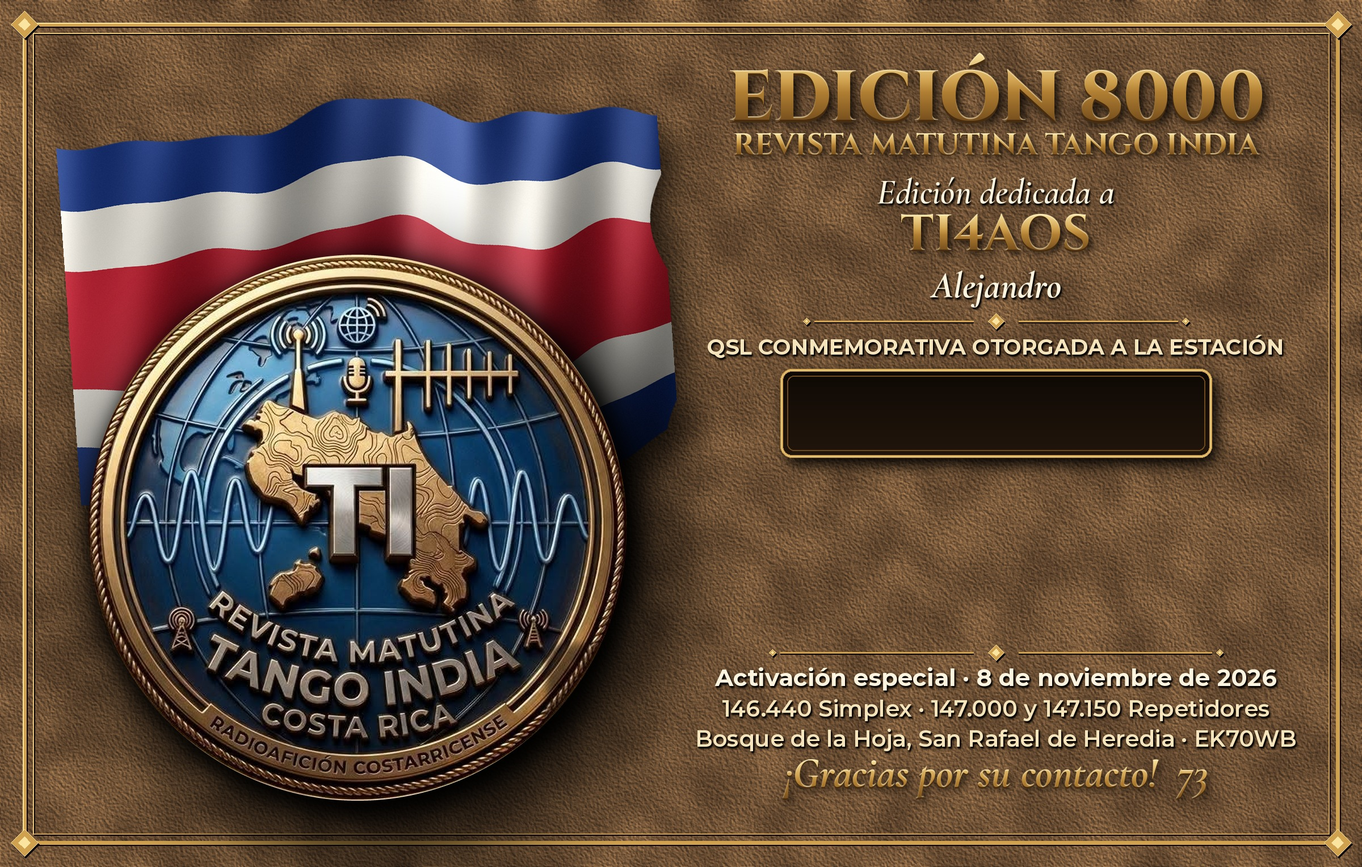
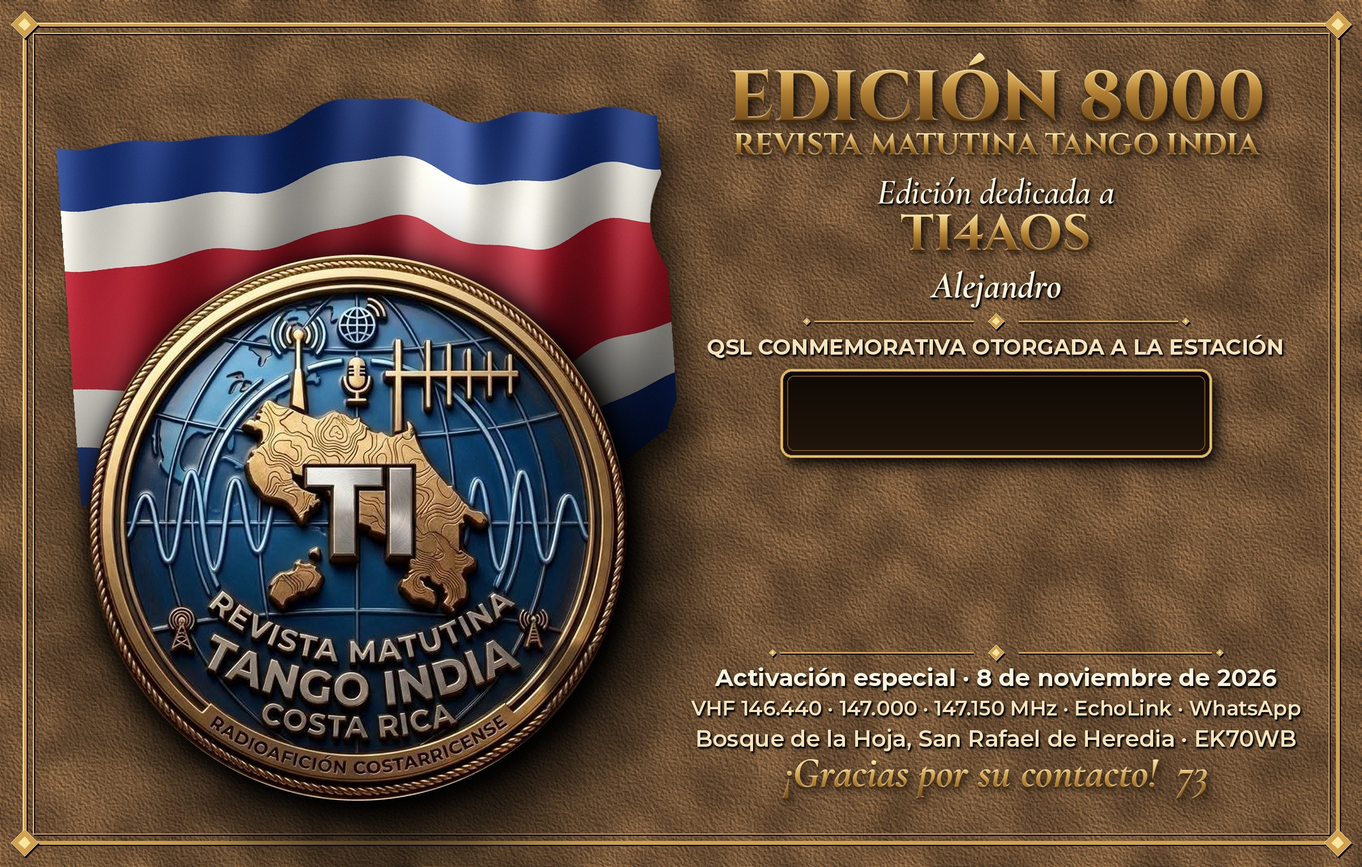
Add files via upload

Changed region(s): [[0.5, 0.7997, 0.9688, 0.8305]]

diff --git a/index.html b/index.html
@@ -170,6 +170,9 @@ footer .pend b{color:var(--warn)}
 'use strict';
 const OFFSET_UTC = 6;   // Costa Rica: UTC = local + 6 h
 const FREQS = [['146.440', 'Simplex'], ['147.000', 'Rep. Heredia'], ['147.150', 'Rep. Nacional']];
+const MODOS = [['FM', 'Radio'], ['EchoLink', 'Voz digital'], ['WhatsApp', 'Audio']];
+const modoDe = e => e.modo || 'FM';
+const descQ = q => q.modo === 'FM' || !q.modo ? q.freq + ' MHz' : q.modo;
 const KEY = 'qsl8000';
 const $ = s => document.querySelector(s);
 
@@ -263,11 +266,15 @@ function render() {
     const custom = e.freq && !FREQS.some(f => f[0] === e.freq);
     main.innerHTML = `
       <div class="card">
-        <div class="lbl"><span>Frecuencia de ${esc(e.call)}</span><button class="iconbtn" id="closeTab" style="font-size:13px;padding:5px 10px">Cerrar pestaña</button></div>
+        <div class="lbl"><span>Modo de ${esc(e.call)}</span><button class="iconbtn" id="closeTab" style="font-size:13px;padding:5px 10px">Cerrar pestaña</button></div>
+        <div class="freqs" style="grid-template-columns:repeat(3,1fr);margin-bottom:${modoDe(e) === 'FM' ? 14 : 0}px">
+          ${MODOS.map(m => `<button class="fb ${modoDe(e) === m[0] ? 'sel' : ''}" data-m="${m[0]}">${m[0] === 'FM' ? 'VHF FM' : m[0]}<small>${m[1]}</small></button>`).join('')}
+        </div>
+        ${modoDe(e) === 'FM' ? `<div class="lbl"><span>Frecuencia</span></div>
         <div class="freqs">
           ${FREQS.map(f => `<button class="fb ${e.freq === f[0] ? 'sel' : ''}" data-f="${f[0]}">${f[0]}<small>${f[1]}</small></button>`).join('')}
           <button class="fb ${custom ? 'sel' : ''}" id="fOtra">${custom ? esc(e.freq) + ' ✎' : 'Otra'}<small>${custom ? 'Otra' : 'Digitar'}</small></button>
-        </div>
+        </div>` : ''}
       </div>
       <div class="card">
         <div class="editbar ${editId ? 'on' : ''}"><span>Editando QSO</span><button id="cancelEdit">Cancelar edición</button></div>
@@ -296,7 +303,7 @@ function renderLista() {
     <div class="q ${q.borrado ? 'del' : ''}">
       <div class="c">${esc(q.call)}</div>
       <div class="t">${q.horaLocal} <small>local</small> → <b>${q.horaUtc}</b> <small>UTC</small></div>
-      <div class="f">${esc(q.freq)} MHz</div>
+      <div class="f">${esc(descQ(q))}</div>
       <div class="a">
         <span class="st ${q.estado}">${q.estado === 'ok' ? '✓ enviado' : (q.borrado ? '⏳ borrar' : '⏳ pendiente')}</span>
         ${q.estado === 'pend' ? `<button data-send="${q.id}" title="Enviar este">⇪</button>` : ''}
@@ -324,18 +331,19 @@ function registrar() {
   const call = up(form.call), hora = parseHora(form.hora);
   if (!call || !/^[A-Z0-9]{1,4}[0-9][A-Z0-9\/\-]*$|^[A-Z0-9\/\-]{3,}$/.test(call)) { toast('Revise el indicativo'); $('#inCall').focus(); return; }
   if (!hora) { toast('Revise la hora'); $('#inHora').focus(); return; }
-  if (!e.freq) { toast('Seleccione la frecuencia'); return; }
+  const modo = modoDe(e), freq = modo === 'FM' ? e.freq : '';
+  if (modo === 'FM' && !freq) { toast('Seleccione la frecuencia'); return; }
   if (call === e.call) { toast('El contactado no puede ser el mismo operador'); return; }
   const u = aUtc(S.cfg.fecha, hora);
   if (editId) {
     const q = S.qsos.find(x => x.id === editId);
-    Object.assign(q, { call, horaLocal: hora, fechaLocal: S.cfg.fecha, horaUtc: u.hora, fechaUtc: u.fecha, ver: q.ver + 1, estado: 'pend' });
+    Object.assign(q, { call, modo, freq, horaLocal: hora, fechaLocal: S.cfg.fecha, horaUtc: u.hora, fechaUtc: u.fecha, ver: q.ver + 1, estado: 'pend' });
     editId = null; toast('QSO actualizado');
   } else {
-    const dup = S.qsos.find(x => !x.borrado && x.op === e.call && x.call === call && x.freq === e.freq);
-    if (dup && !confirm(`${call} ya tiene QSO con ${e.call} en ${e.freq} (${dup.horaLocal}). ¿Registrar otro?`)) return;
+    const dup = S.qsos.find(x => !x.borrado && x.op === e.call && x.call === call && (x.modo || 'FM') === modo && x.freq === freq);
+    if (dup && !confirm(`${call} ya tiene QSO con ${e.call} por ${descQ(dup)} (${dup.horaLocal}). ¿Registrar otro?`)) return;
     S.qsos.push({ id: uid(), op: e.call, call, fechaLocal: S.cfg.fecha, horaLocal: hora, fechaUtc: u.fecha, horaUtc: u.hora,
-                  freq: e.freq, modo: 'FM', borrado: false, ver: 1, estado: 'pend', enviado: false, ts: Date.now() });
+                  freq, modo, borrado: false, ver: 1, estado: 'pend', enviado: false, ts: Date.now() });
     toast(`${call} registrado · ${u.hora} UTC`);
   }
   form.call = ''; form.hora = '';
@@ -346,7 +354,7 @@ function registrar() {
 function editar(id) {
   const q = S.qsos.find(x => x.id === id); if (!q) return;
   editId = id; form.call = q.call; form.hora = q.horaLocal.replace(':', '');
-  const e = S.est[S.act]; e.freq = q.freq;
+  const e = S.est[S.act]; e.modo = q.modo || 'FM'; if (e.modo === 'FM') e.freq = q.freq;
   render(); $('#inCall').focus();
 }
 
@@ -362,7 +370,7 @@ function borrar(id) {
 function agregarOperador(call) {
   call = up(call); if (!call) return;
   let i = S.est.findIndex(e => e.call === call);
-  if (i < 0) { S.est.push({ call, freq: '' }); i = S.est.length - 1; }
+  if (i < 0) { S.est.push({ call, freq: '', modo: 'FM' }); i = S.est.length - 1; }
   S.act = i; editId = null; form.call = ''; form.hora = '';
   save(); cerrar('#mOp'); render();
   setTimeout(() => { const t = document.querySelector('.tab.act'); t && t.scrollIntoView({ inline: 'center', behavior: 'smooth' }); }, 50);
@@ -406,6 +414,7 @@ document.addEventListener('click', ev => {
   const t = ev.target.closest('button'); if (!t) return;
   if (t.dataset.tab != null) { S.act = +t.dataset.tab; editId = null; form.call = ''; form.hora = ''; save(); render(); return; }
   if (t.id === 'tabAdd') { abrir('#mOp'); $('#opIn').value = ''; $('#opSugs').innerHTML = ''; setTimeout(() => $('#opIn').focus(), 50); return; }
+  if (t.dataset.m) { S.est[S.act].modo = t.dataset.m; save(); render(); $('#inCall') && $('#inCall').focus(); return; }
   if (t.dataset.f) { S.est[S.act].freq = t.dataset.f; save(); render(); $('#inCall') && $('#inCall').focus(); return; }
   if (t.id === 'fOtra') {
     const v = prompt('Frecuencia en MHz (ej. 145.590):', S.est[S.act].freq || '');

diff --git a/sw.js b/sw.js
@@ -1,5 +1,5 @@
 // Guarda la página en la tablet para que abra sin internet.
-const CACHE = 'qsl8000-v1';
+const CACHE = 'qsl8000-v2';
 const ARCHIVOS = ['./', './index.html', './indicativos.js', './manifest.webmanifest', './icon-192.png', './icon-512.png'];
 
 self.addEventListener('install', e => {
